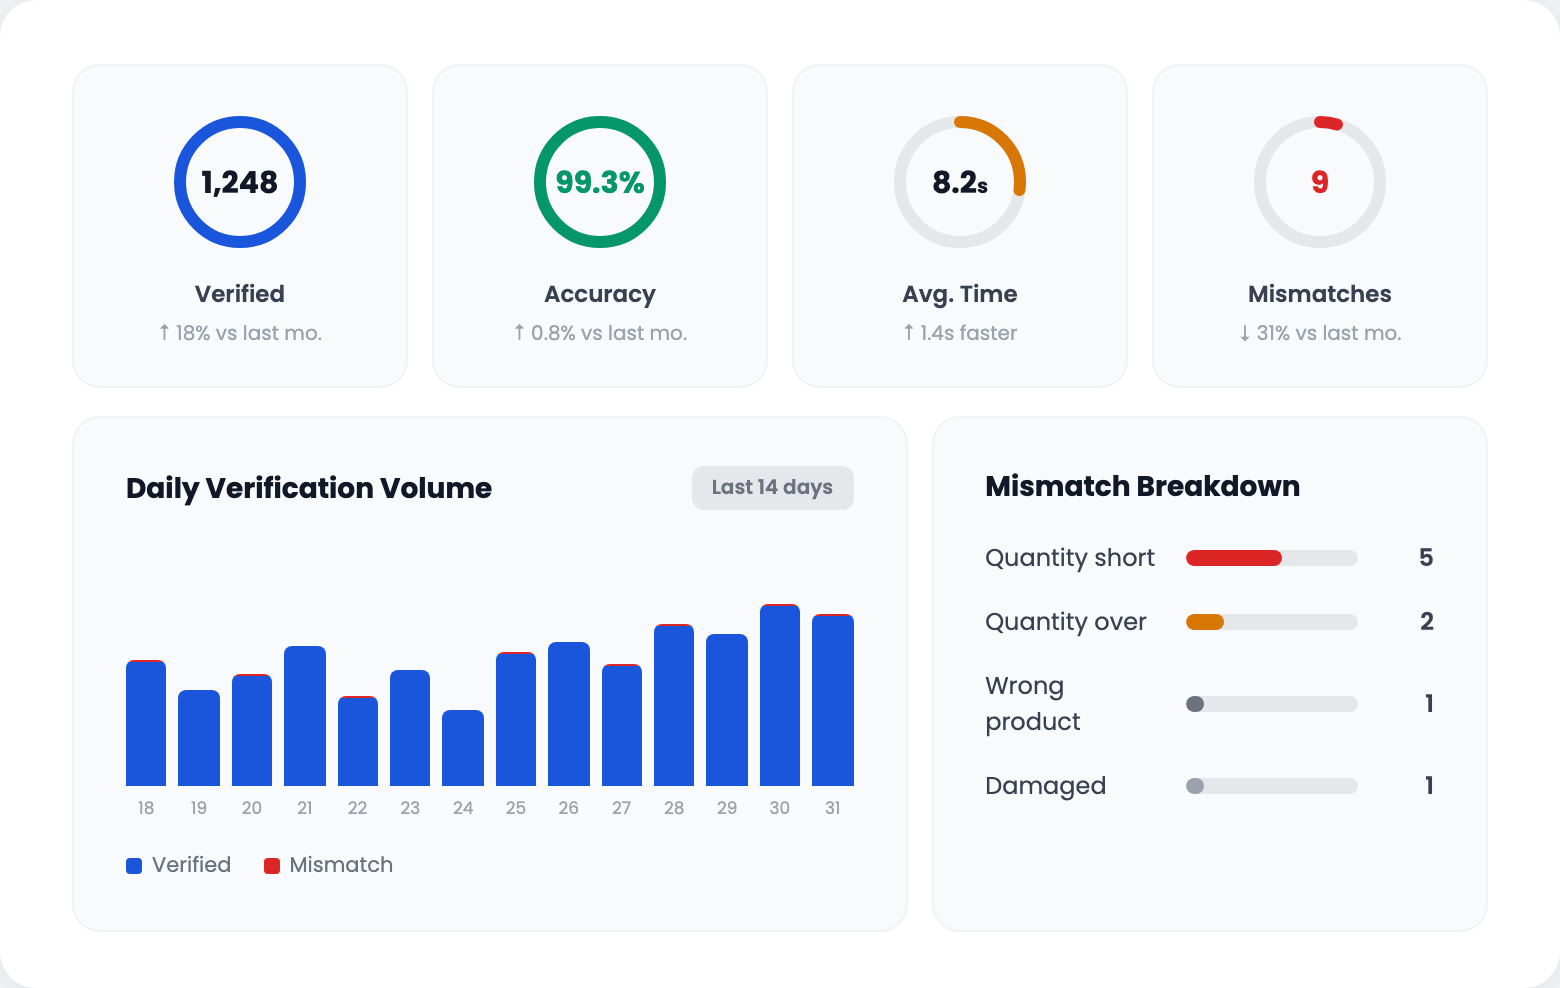
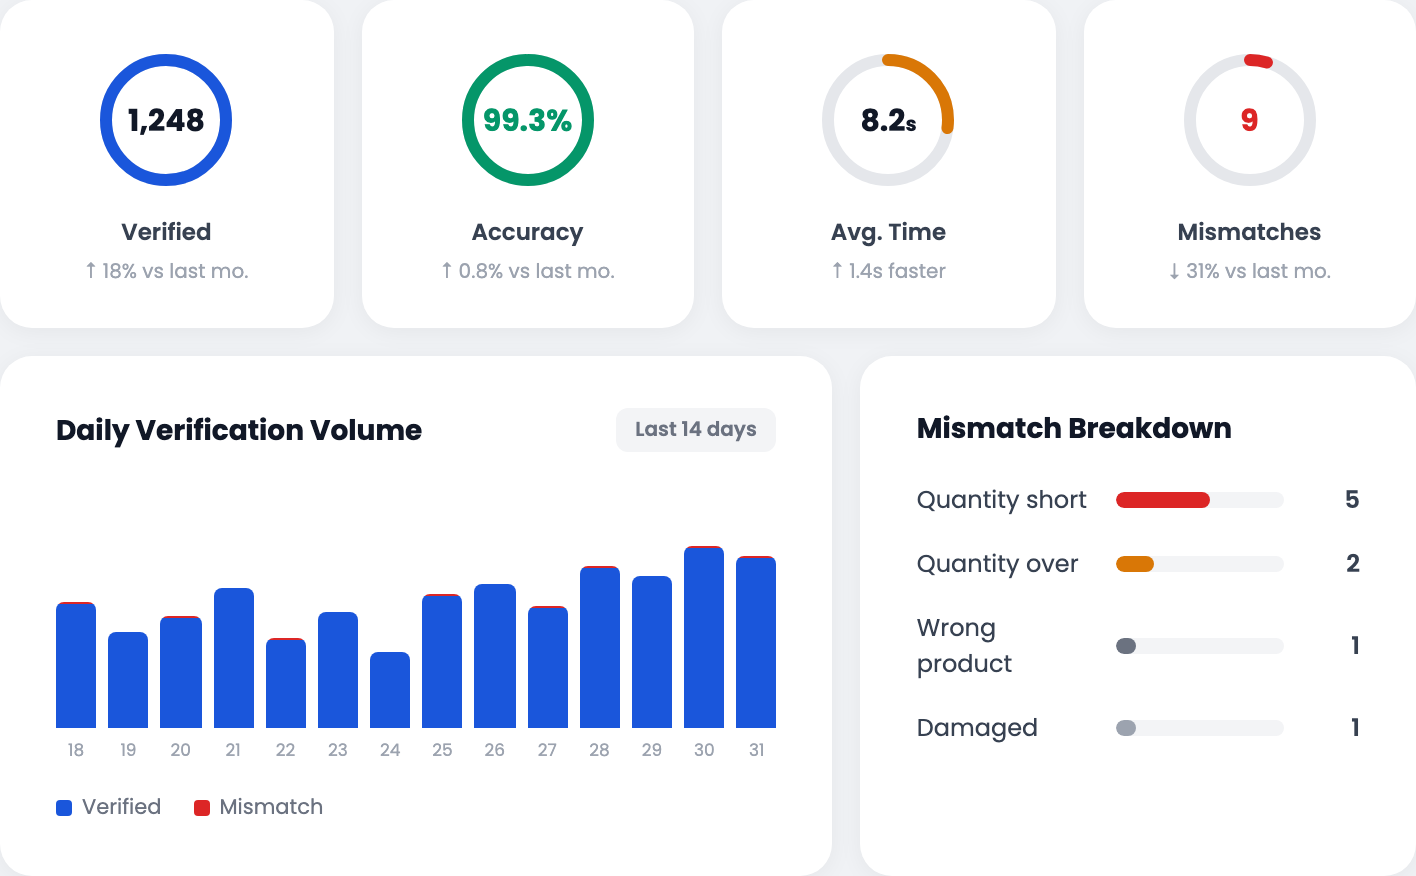
Restored to '6c8d5414bc6fc5d6f92df4ee9aa9a1a31c40ec29'
Replit-Restored-To: 6c8d5414bc6fc5d6f92df4ee9aa9a1a31c40ec29

diff --git a/client/src/pages/home.tsx b/client/src/pages/home.tsx
@@ -9,7 +9,7 @@ import { useLanguage } from "@/lib/LanguageContext";
 import { LanguageDropdown } from "@/components/LanguageDropdown";
 import { track } from "@/lib/analytics";
 import dashboardImage from "@assets/dash-board-kpi.png";
-import dashboardImageNew from "@assets/image_1775122049450.png";
+import dashboardImageNew from "@assets/dashboard-dispatch-overview.png";
 import stockImage from "@assets/dashboard-verification-feed.png";
 import demoVideo from "@assets/Landing-Page-Reel-876x512.mp4";
 import demoVideoNew from "@assets/vexgen-demo-website.mp4";
@@ -415,7 +415,7 @@ export default function Home() {
                 width="960"
                 height="540"
                 loading="lazy"
-                className="w-[108%] -mx-[4%] -my-[3%]"
+                className="w-full"
                 data-testid="img-dashboard"
               />
             </div>
